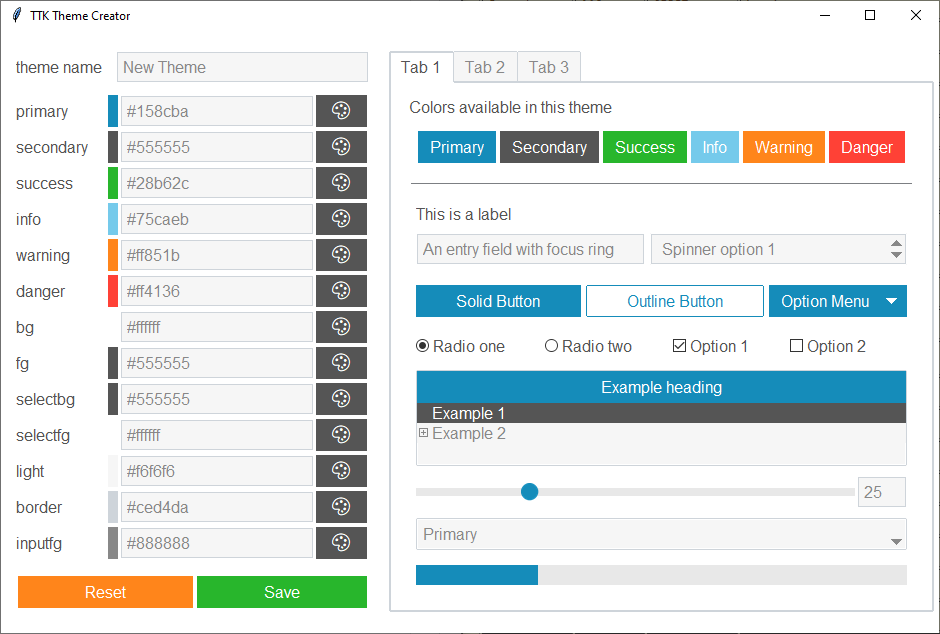
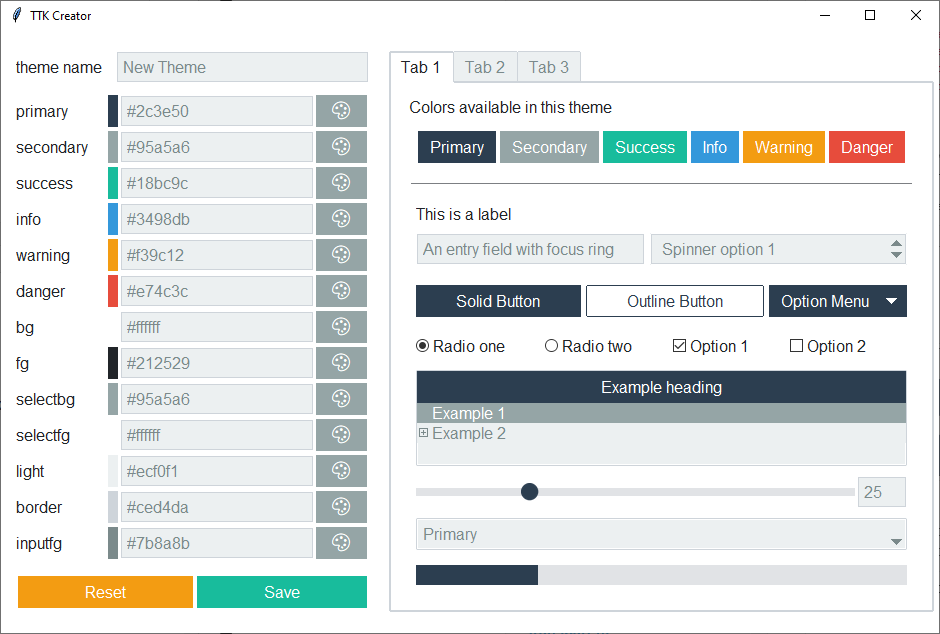
updated docstring and documentation

diff --git a/docs/_build/html/searchindex.js b/docs/_build/html/searchindex.js
@@ -1,1 +1,1 @@
-Search.setIndex({docnames:["creator","gettingstarted","index","install","overview","reference","themes","usage"],envversion:{"sphinx.domains.c":2,"sphinx.domains.changeset":1,"sphinx.domains.citation":1,"sphinx.domains.cpp":3,"sphinx.domains.index":1,"sphinx.domains.javascript":2,"sphinx.domains.math":2,"sphinx.domains.python":2,"sphinx.domains.rst":2,"sphinx.domains.std":2,"sphinx.ext.viewcode":1,sphinx:56},filenames:["creator.rst","gettingstarted.rst","index.rst","install.rst","overview.rst","reference.rst","themes.rst","usage.rst"],objects:{"":{ttkbootstrap:[4,0,0,"-"]},"ttkbootstrap.Colors":{__init__:[5,2,1,""],__repr__:[5,2,1,""],__weakref__:[5,3,1,""],brightness:[5,2,1,""],get:[5,2,1,""],hex_to_rgb:[5,2,1,""],label_iter:[5,2,1,""],rgb_to_hex:[5,2,1,""],set:[5,2,1,""]},"ttkbootstrap.Style":{__init__:[5,2,1,""],theme_use:[5,2,1,""]},ttkbootstrap:{Colors:[5,1,1,""],Style:[5,1,1,""]}},objnames:{"0":["py","module","Python module"],"1":["py","class","Python class"],"2":["py","method","Python method"],"3":["py","attribute","Python attribute"]},objtypes:{"0":"py:module","1":"py:class","2":"py:method","3":"py:attribute"},terms:{"158cba":6,"28b62c":6,"555555":6,"75caeb":6,"888888":6,"case":4,"class":[4,5,6,7],"default":[0,1,5,6,7],"float":5,"import":1,"int":5,"new":[0,5,6],"return":5,"static":5,"while":[3,4,7],And:4,For:[4,5,7],The:[0,1,5,6,7],Then:0,There:[2,3,6],These:[6,7],Using:2,YES:0,Yes:4,__init__:5,__repr__:5,__weakref__:5,abilti:4,abl:6,about:[1,2,6],accent:5,access:5,accur:5,actual:[0,6,7],adjust:5,after:[5,7],all:[0,4,5,6,7],alreadi:[0,3,5,7],also:[3,7],alt:1,ani:[1,6],anoth:[0,5],api:[4,7],appli:[0,1,4,5,7],applic:[2,4,5],appreci:4,approach:2,apt:0,arg:5,argument:[1,5,7],asid:6,ask:0,assign:1,attach:5,automat:1,avail:[0,4,5,6,7],background:5,base:[2,5,6],basi:5,basic:6,been:[5,7],behavior:[1,6],being:6,below:1,best:6,better:4,blue:[4,5],bootstrap:2,bootswatch:[4,6],border:[5,6],brand:6,bright:5,build:4,built:[1,2,4,5,6],button:[1,4,7],can:[0,1,5,6,7],car:6,ced4da:6,chang:[3,5,6,7],check:[0,1],checkbutton:7,choos:[0,2],clam:[1,6],classic:1,click:0,collect:[2,5,6],color:[0,1,2,4,6,7],color_label:5,color_valu:5,com:[3,4,6],combin:6,combobox:[4,5,6,7],come:4,complet:4,consid:7,consist:4,consol:0,construct:[0,6],contain:[3,5,6],content:2,convert:[5,6],correspond:5,cosmo:[6,7],couldn:0,craft:6,crash:0,creat:[1,2,4,5,7],creator:[1,2,4],css:4,current:[5,7],custom:[1,4],cyborg:[6,7],danger:[5,6,7],dark:[0,2,7],darken:5,darker:5,darkli:[1,6,7],date:3,declar:4,defin:[0,1,4,5,6,7],definit:6,demo:[0,6],depend:3,design:[0,6],desir:6,destin:0,detail:5,develop:[3,4],dialogu:0,didn:4,differ:[0,1,6],directli:0,directori:0,distribut:3,document:5,doe:[2,7],dot:5,dozen:2,drop:5,dryer:3,each:[6,7],easi:[0,3,4],easiest:3,effect:6,element:[0,6],emit:5,emojii:0,engin:4,entri:[5,7],etc:[0,1,5,6],even:4,event:5,everi:7,exampl:[2,4,5,6,7],excel:6,exist:[0,2,6],expect:5,explicitli:5,extract:6,extrem:4,f6f6f6:6,fafafa:5,familiar:4,featur:3,feel:6,few:3,ff4136:6,ff851b:6,ffffff:6,field:6,file:[0,6],find:0,first:[0,7],fix:0,flat:2,flatli:[6,7],follow:[6,7],font:[0,5,6],foreground:5,found:4,frame:7,from:[0,1,3,6],gener:[1,7],get:[0,2,5,6,7],git:3,github:[0,3],give:[3,6],given:5,green:5,gui:4,handl:3,happen:0,har:4,has:[5,7],have:[0,4,7],help:5,helper:5,helvetica:6,here:6,hex:0,hex_color:5,hex_to_rgb:5,hexadecim:5,horizont:7,how:[0,1,2],http:[3,4,6],hue:5,ident:7,imag:3,imagin:6,includ:[3,5,6,7],index:2,info:[4,5,6,7],inform:6,inherit:5,initi:5,input:[0,5],inputfg:[5,6],insid:4,inspir:[2,4,6],instal:[0,2],instanc:5,instanti:[5,7],instead:7,intend:4,interfac:4,intern:7,israel:3,iter:5,its:4,journal:[6,7],json:6,just:6,kei:5,keyword:[1,7],know:0,kwarg:5,label:[5,7],label_it:5,labelfram:7,layout:6,learn:1,left:[1,7],legaci:[2,4],librari:3,light:[0,2,5,7],lighten:5,lighter:5,like:[3,4,6],linux:[0,7],list:[4,5,7],liter:7,litera:6,live:6,load:[0,6],locat:0,look:[2,4,6],lookup:5,lumen:[1,5,6,7],maco:[0,7],mai:[0,3,6],main:[5,7],mainloop:1,make:[0,4],mani:[4,7],manipul:5,manual:1,map:6,master:[1,5],meant:5,menu:0,menubutton:7,method:[3,5,7],minti:[6,7],modern:[2,4],modul:2,more:[1,2,3,5],most:[3,5,7],must:0,name:[0,1,5,6,7],nearli:4,necessari:5,necessarili:4,need:[0,1,4,5,7],neg:5,nice:4,non:5,none:5,notat:5,notebook:7,now:0,nuanc:0,object:[1,5,7],off:4,often:4,old:[2,6],one:6,onli:[6,7],option:[0,3],optionmenu:4,orang:5,order:6,other:6,otherwis:[5,7],out:[1,4],outlin:[1,4,7],over:5,overid:0,overlook:4,overview:2,overwrit:0,overwritten:0,own:[0,1,2,4],pack:[1,7],packag:[0,4],padi:[1,7],padx:[1,7],page:2,palett:0,panedwindow:7,paramet:5,part:6,pass:[1,7],pattern:2,pct_chang:5,peopl:4,percent:5,pillow:3,pip:3,place:4,point:[0,6],popdown:4,posit:5,post:0,power:4,pre:[1,4,7],prefer:5,prefix:7,primari:[5,6,7],print:5,probabl:4,process:3,produc:7,profession:4,program:0,progressbar:7,project:2,prompt:0,properi:5,properti:[5,7],provid:[4,5],puls:[6,7],pypi:2,python:[0,3,4,5,6],quick:4,radiobutton:7,read:6,realli:[0,6],reason:[0,5,7],recommend:[0,3],red:5,refer:[2,6],refresh:5,relat:5,replac:5,repr:5,repres:5,requir:3,reset:0,result:1,revers:5,rgb:5,rgb_to_hex:5,rip:4,root:5,run:[5,7],runtim:[1,5,6,7],safe:0,sale:4,same:[4,5],sandston:[6,7],save:2,scale:7,scratch:0,scrollbar:7,search:2,secondari:[4,5,6,7],section:1,see:[0,5,6],select:[2,5],selectbg:[5,6],selectfg:[5,6],self:5,separ:7,set:[0,5,6,7],sever:[5,6],should:[0,5],shouldn:4,show:7,side:[1,7],signatur:5,similar:4,simpl:2,simpli:4,sizegrip:7,solar:[6,7],solid:7,solut:0,some:[0,3,4,5,6,7],sore:4,sourc:[2,5],specif:7,spinbox:[5,6,7],stabl:3,standard:1,start:2,state:6,stick:4,store:[0,6],str:5,style:[1,2,6],stylerttk:6,styletk:4,submit:[1,7],success:[1,5,6,7],sudo:0,superhero:[5,6,7],support:[0,5],sure:4,symbola:0,tabl:7,take:6,tbutton:[1,4,7],tcheckbutton:7,tcombobox:7,templat:6,tentri:7,text:[1,5,7],tframe:7,than:[2,6],thei:[0,4],theme:[1,2,4,5],theme_nam:[5,7],theme_us:[5,7],themechang:5,themenam:5,thi:[0,1,2,3,5,6],thu:4,thumb:4,time:[0,5,7],tkinter:[1,2,5],tlabel:7,tlabelfram:7,tmenubutton:7,tnotebook:7,togeth:6,took:4,tpanedwindow:7,tprogressbar:7,tradiobutton:7,treeview:7,trough:5,tscale:7,tscrollbar:7,tsepar:7,tsizegrip:7,tspinbox:7,ttk:[1,2,4,5,6,7],ttkbootstrap:[0,1,3,4,5,6,7],ttkcreator:0,tupl:5,type:[0,5,6],typic:5,under:4,uniqu:0,unit:[6,7],untest:3,updat:0,upgrad:0,use:[0,1,4,5,6,7],used:[3,4,5,6],user:[0,1,4,6],using:[0,1,3,4,6],util:4,valu:5,variou:[4,6],veri:4,version:4,vertic:7,via:5,view:6,want:[0,1,4,5,6,7],warn:[5,6,7],weak:5,web:4,well:5,what:[2,6,7],when:[0,1,4,5,6,7],where:7,which:[0,1,4,6,7],whole:4,why:[2,6],widget:[0,1,2,5,6],widgetclass:7,window:[0,1,5,6,7],without:0,wonder:6,work:1,would:[1,7],writabl:0,xpnativ:7,yet:4,yeti:[6,7],you:[0,1,3,4,5,6,7],your:[1,2,4]},titles:["TTK Creator","Getting started","Welcome to ttkbootstrap\u2019s documentation!","Installation","Overview","Reference","Themes","How to style widgets"],titleterms:{Using:7,about:4,applic:0,approach:4,base:0,bootstrap:4,choos:7,color:5,creat:[0,6],creator:0,dark:6,document:2,doe:4,exampl:1,exist:4,get:1,how:[6,7],indic:2,instal:3,legaci:6,light:6,old:4,overview:4,pattern:7,project:4,pypi:3,refer:5,save:0,select:0,simpl:1,sourc:3,start:[0,1],style:[4,5,7],tabl:2,theme:[0,6,7],thi:4,tkinter:4,ttk:0,ttkbootstrap:2,welcom:2,what:4,why:4,widget:[4,7],your:0}})
+Search.setIndex({docnames:["creator","gettingstarted","index","install","overview","reference","themes","usage"],envversion:{"sphinx.domains.c":2,"sphinx.domains.changeset":1,"sphinx.domains.citation":1,"sphinx.domains.cpp":3,"sphinx.domains.index":1,"sphinx.domains.javascript":2,"sphinx.domains.math":2,"sphinx.domains.python":2,"sphinx.domains.rst":2,"sphinx.domains.std":2,"sphinx.ext.viewcode":1,sphinx:56},filenames:["creator.rst","gettingstarted.rst","index.rst","install.rst","overview.rst","reference.rst","themes.rst","usage.rst"],objects:{"":{ttkbootstrap:[4,0,0,"-"]},"ttkbootstrap.Colors":{__init__:[5,2,1,""],__repr__:[5,2,1,""],__weakref__:[5,3,1,""],brightness:[5,2,1,""],get:[5,2,1,""],hex_to_rgb:[5,2,1,""],label_iter:[5,2,1,""],rgb_to_hex:[5,2,1,""],set:[5,2,1,""]},"ttkbootstrap.Style":{__init__:[5,2,1,""],theme_use:[5,2,1,""]},ttkbootstrap:{Colors:[5,1,1,""],Style:[5,1,1,""]}},objnames:{"0":["py","module","Python module"],"1":["py","class","Python class"],"2":["py","method","Python method"],"3":["py","attribute","Python attribute"]},objtypes:{"0":"py:module","1":"py:class","2":"py:method","3":"py:attribute"},terms:{"158cba":6,"28b62c":6,"555555":6,"75caeb":6,"888888":6,"case":4,"class":[4,5,6,7],"default":[0,1,5,6,7],"float":5,"import":1,"int":5,"new":[0,5,6],"return":5,"static":5,"while":[3,4,7],And:4,For:[4,5,7],The:[0,1,5,6,7],Then:0,There:[2,3,6],These:[6,7],Using:2,YES:0,Yes:4,__init__:5,__repr__:5,__weakref__:5,abilti:4,abl:6,about:[1,2,6],accent:5,access:5,accur:5,actual:[0,6,7],adjust:5,after:[5,7],all:[0,4,5,6,7],alreadi:[0,3,5,7],also:[3,7],alt:1,ani:[1,6],anoth:[0,5],api:[4,7],appli:[0,1,4,5,7],applic:[2,4,5],appreci:4,approach:2,apt:0,arg:5,argument:[1,5,7],asid:6,ask:0,assign:1,attach:5,automat:1,avail:[0,4,5,6,7],background:5,base:[2,5,6],basi:5,basic:6,been:[5,7],behavior:[1,6],being:6,below:1,best:6,better:4,blue:[4,5],bootstrap:2,bootswatch:[4,6],border:[5,6],brand:6,bright:5,build:4,built:[1,2,4,5,6],button:[1,4,7],can:[0,1,5,6,7],car:6,ced4da:6,chang:[3,5,6,7],check:[0,1],checkbutton:7,choos:[0,2],clam:[1,6],classic:1,click:0,collect:[2,5,6],color:[0,1,2,4,6,7],color_label:5,color_valu:5,com:[3,4,6],combin:6,combobox:[4,5,6,7],come:4,complet:4,consid:7,consist:4,consol:0,construct:[0,6],contain:[3,5,6],content:2,convert:[5,6],correspond:5,cosmo:[6,7],couldn:0,craft:6,crash:0,creat:[1,2,4,5,7],creator:[1,2,4],css:4,current:[5,7],custom:[1,4],cyborg:[6,7],danger:[5,6,7],dark:[0,2,7],darken:5,darker:5,darkli:[1,6,7],date:3,declar:4,defin:[0,1,4,5,6,7],definit:6,demo:[0,6],depend:3,design:[0,6],desir:6,destin:0,detail:5,develop:[3,4],dialogu:0,didn:4,differ:[0,1,6],directli:0,directori:0,distribut:3,document:5,doe:[2,7],dot:5,dozen:2,drop:5,dryer:3,each:[6,7],easi:[0,3,4],easiest:3,effect:6,element:[0,6],emit:5,emojii:0,engin:4,entri:[5,7],etc:[0,1,5,6],even:4,event:5,everi:7,exampl:[2,4,5,6,7],excel:6,exist:[0,2,6],expect:5,explicitli:5,extract:6,extrem:4,f6f6f6:6,fafafa:5,familiar:4,featur:3,feel:6,few:3,ff4136:6,ff851b:6,ffffff:6,field:6,file:[0,6],find:0,first:[0,7],fix:0,flat:2,flatli:[1,5,6,7],follow:[6,7],font:[0,5,6],foreground:5,found:4,frame:7,from:[0,1,3,6],gener:[1,7],get:[0,2,5,6,7],git:3,github:[0,3],give:[3,6],given:5,green:5,gui:4,handl:3,happen:0,har:4,has:[5,7],have:[0,4,7],help:5,helper:5,helvetica:6,here:6,hex:0,hex_color:5,hex_to_rgb:5,hexadecim:5,horizont:7,how:[0,1,2],http:[3,4,6],hue:5,ident:7,imag:3,imagin:6,includ:[3,5,6,7],index:2,info:[4,5,6,7],inform:6,inherit:5,initi:5,input:[0,5],inputfg:[5,6],insid:4,inspir:[2,4,6],instal:[0,2],instanc:5,instanti:[5,7],instead:7,intend:4,interfac:4,intern:7,israel:3,iter:5,its:4,journal:[6,7],json:6,just:6,kei:5,keyword:[1,7],know:0,kwarg:5,label:[5,7],label_it:5,labelfram:7,layout:6,learn:1,left:[1,7],legaci:[2,4],librari:3,light:[0,2,5,7],lighten:5,lighter:5,like:[3,4,6],linux:[0,7],list:[4,5,7],liter:7,litera:6,live:6,load:[0,6],locat:0,look:[2,4,6],lookup:5,lumen:[6,7],maco:[0,7],mai:[0,3,6],main:[5,7],mainloop:1,make:[0,4],mani:[4,7],manipul:5,manual:1,map:6,master:[1,5],meant:5,menu:0,menubutton:7,method:[3,5,7],minti:[6,7],modern:[2,4],modul:2,more:[1,2,3,5],most:[3,5,7],must:0,name:[0,1,5,6,7],nearli:4,necessari:5,necessarili:4,need:[0,1,4,5,7],neg:5,nice:4,non:5,none:5,notat:5,notebook:7,now:0,nuanc:0,object:[1,5,7],off:4,often:4,old:[2,6],one:6,onli:[6,7],option:[0,3],optionmenu:4,orang:5,order:6,other:6,otherwis:[5,7],out:[1,4],outlin:[1,4,7],over:5,overid:0,overlook:4,overview:2,overwrit:0,overwritten:0,own:[0,1,2,4],pack:[1,7],packag:[0,4],padi:[1,7],padx:[1,7],page:2,palett:0,panedwindow:7,paramet:5,part:6,pass:[1,7],pattern:2,pct_chang:5,peopl:4,percent:5,pillow:3,pip:3,place:4,point:[0,6],popdown:4,posit:5,post:0,power:4,pre:[1,4,7],prefer:5,prefix:7,primari:[5,6,7],print:5,probabl:4,process:3,produc:7,profession:4,program:0,progressbar:7,project:2,prompt:0,properi:5,properti:[5,7],provid:[4,5],puls:[6,7],pypi:2,python:[0,3,4,5,6],quick:4,radiobutton:7,read:6,realli:[0,6],reason:[0,5,7],recommend:[0,3],red:5,refer:[2,6],refresh:5,relat:5,replac:5,repr:5,repres:5,requir:3,reset:0,result:1,revers:5,rgb:5,rgb_to_hex:5,rip:4,root:5,run:[5,7],runtim:[1,5,6,7],safe:0,sale:4,same:[4,5],sandston:[6,7],save:2,scale:7,scratch:0,scrollbar:7,search:2,secondari:[4,5,6,7],section:1,see:[0,5,6],select:[2,5],selectbg:[5,6],selectfg:[5,6],self:5,separ:7,set:[0,5,6,7],sever:[5,6],should:[0,5],shouldn:4,show:7,side:[1,7],signatur:5,similar:4,simpl:2,simpli:4,sizegrip:7,solar:[6,7],solid:7,solut:0,some:[0,3,4,5,6,7],sore:4,sourc:[2,5],specif:7,spinbox:[5,6,7],stabl:3,standard:1,start:2,state:6,stick:4,store:[0,6],str:5,style:[1,2,6],stylerttk:6,styletk:4,submit:[1,7],success:[1,5,6,7],sudo:0,superhero:[5,6,7],support:[0,5],sure:4,symbola:0,tabl:7,take:6,tbutton:[1,4,7],tcheckbutton:7,tcombobox:7,templat:6,tentri:7,text:[1,5,7],tframe:7,than:[2,6],thei:[0,4],theme:[1,2,4,5],theme_nam:[5,7],theme_us:[5,7],themechang:5,themenam:5,thi:[0,1,2,3,5,6],thu:4,thumb:4,time:[0,5,7],tkinter:[1,2,5],tlabel:7,tlabelfram:7,tmenubutton:7,tnotebook:7,togeth:6,took:4,tpanedwindow:7,tprogressbar:7,tradiobutton:7,treeview:7,trough:5,tscale:7,tscrollbar:7,tsepar:7,tsizegrip:7,tspinbox:7,ttk:[1,2,4,5,6,7],ttkbootstrap:[0,1,3,4,5,6,7],ttkcreator:0,tupl:5,type:[0,5,6],typic:5,under:4,uniqu:0,unit:[6,7],untest:3,updat:0,upgrad:0,use:[0,1,4,5,6,7],used:[3,4,5,6],user:[0,1,4,6],using:[0,1,3,4,6],util:4,valu:5,variou:[4,6],veri:4,version:4,vertic:7,via:5,view:6,want:[0,1,4,5,6,7],warn:[5,6,7],weak:5,web:4,well:5,what:[2,6,7],when:[0,1,4,5,6,7],where:7,which:[0,1,4,6,7],whole:4,why:[2,6],widget:[0,1,2,5,6],widgetclass:7,window:[0,1,5,6,7],without:0,wonder:6,work:1,would:[1,7],writabl:0,xpnativ:7,yet:4,yeti:[6,7],you:[0,1,3,4,5,6,7],your:[1,2,4]},titles:["TTK Creator","Getting started","Welcome to ttkbootstrap\u2019s documentation!","Installation","Overview","Reference","Themes","How to style widgets"],titleterms:{Using:7,about:4,applic:0,approach:4,base:0,bootstrap:4,choos:7,color:5,creat:[0,6],creator:0,dark:6,document:2,doe:4,exampl:1,exist:4,get:1,how:[6,7],indic:2,instal:3,legaci:6,light:6,old:4,overview:4,pattern:7,project:4,pypi:3,refer:5,save:0,select:0,simpl:1,sourc:3,start:[0,1],style:[4,5,7],tabl:2,theme:[0,6,7],thi:4,tkinter:4,ttk:0,ttkbootstrap:2,welcom:2,what:4,why:4,widget:[4,7],your:0}})

diff --git a/docs/_build/html/reference.html b/docs/_build/html/reference.html
@@ -173,7 +173,7 @@ to be a drop-in replacement for <code class="docutils literal notranslate"><span
 object will instantiate the <code class="docutils literal notranslate"><span class="pre">tkinter.Tk</span></code> instance in the <code class="docutils literal notranslate"><span class="pre">Style.master</span></code> property, and so it is not
 necessary to explicitly create an instance of <code class="docutils literal notranslate"><span class="pre">tkinter.Tk</span></code>. For more details on the <code class="docutils literal notranslate"><span class="pre">ttk.Style</span></code> class, see the
 python <a class="reference external" href="https://docs.python.org/3.9/library/tkinter.ttk.html#tkinter.ttk.Style">documentation</a>.</p>
-<div class="highlight-python notranslate"><div class="highlight"><pre><span></span><span class="c1"># instantiate the style with default theme *lumen*</span>
+<div class="highlight-python notranslate"><div class="highlight"><pre><span></span><span class="c1"># instantiate the style with default theme *flatly*</span>
 <span class="n">style</span> <span class="o">=</span> <span class="n">Style</span><span class="p">()</span>
 
 <span class="c1"># instantiate the style with another theme</span>
@@ -186,15 +186,15 @@ python <a class="reference external" href="https://docs.python.org/3.9/library/t
 </div>
 <dl class="py class">
 <dt id="ttkbootstrap.Style">
-<em class="property"><span class="pre">class</span> </em><code class="sig-prename descclassname"><span class="pre">ttkbootstrap.</span></code><code class="sig-name descname"><span class="pre">Style</span></code><span class="sig-paren">(</span><em class="sig-param"><span class="n"><span class="pre">theme</span></span><span class="o"><span class="pre">=</span></span><span class="default_value"><span class="pre">'lumen'</span></span></em>, <em class="sig-param"><span class="o"><span class="pre">*</span></span><span class="n"><span class="pre">args</span></span></em>, <em class="sig-param"><span class="o"><span class="pre">**</span></span><span class="n"><span class="pre">kwargs</span></span></em><span class="sig-paren">)</span><a class="reference internal" href="_modules/ttkbootstrap.html#Style"><span class="viewcode-link"><span class="pre">[source]</span></span></a><a class="headerlink" href="#ttkbootstrap.Style" title="Permalink to this definition">¶</a></dt>
+<em class="property"><span class="pre">class</span> </em><code class="sig-prename descclassname"><span class="pre">ttkbootstrap.</span></code><code class="sig-name descname"><span class="pre">Style</span></code><span class="sig-paren">(</span><em class="sig-param"><span class="n"><span class="pre">theme</span></span><span class="o"><span class="pre">=</span></span><span class="default_value"><span class="pre">'flatly'</span></span></em>, <em class="sig-param"><span class="o"><span class="pre">*</span></span><span class="n"><span class="pre">args</span></span></em>, <em class="sig-param"><span class="o"><span class="pre">**</span></span><span class="n"><span class="pre">kwargs</span></span></em><span class="sig-paren">)</span><a class="reference internal" href="_modules/ttkbootstrap.html#Style"><span class="viewcode-link"><span class="pre">[source]</span></span></a><a class="headerlink" href="#ttkbootstrap.Style" title="Permalink to this definition">¶</a></dt>
 <dd><p>Bases: <code class="xref py py-class docutils literal notranslate"><span class="pre">tkinter.ttk.Style</span></code></p>
 <p>A class for setting the application style.</p>
 <dl class="py method">
 <dt id="ttkbootstrap.Style.__init__">
-<code class="sig-name descname"><span class="pre">__init__</span></code><span class="sig-paren">(</span><em class="sig-param"><span class="n"><span class="pre">theme</span></span><span class="o"><span class="pre">=</span></span><span class="default_value"><span class="pre">'lumen'</span></span></em>, <em class="sig-param"><span class="o"><span class="pre">*</span></span><span class="n"><span class="pre">args</span></span></em>, <em class="sig-param"><span class="o"><span class="pre">**</span></span><span class="n"><span class="pre">kwargs</span></span></em><span class="sig-paren">)</span><a class="reference internal" href="_modules/ttkbootstrap.html#Style.__init__"><span class="viewcode-link"><span class="pre">[source]</span></span></a><a class="headerlink" href="#ttkbootstrap.Style.__init__" title="Permalink to this definition">¶</a></dt>
+<code class="sig-name descname"><span class="pre">__init__</span></code><span class="sig-paren">(</span><em class="sig-param"><span class="n"><span class="pre">theme</span></span><span class="o"><span class="pre">=</span></span><span class="default_value"><span class="pre">'flatly'</span></span></em>, <em class="sig-param"><span class="o"><span class="pre">*</span></span><span class="n"><span class="pre">args</span></span></em>, <em class="sig-param"><span class="o"><span class="pre">**</span></span><span class="n"><span class="pre">kwargs</span></span></em><span class="sig-paren">)</span><a class="reference internal" href="_modules/ttkbootstrap.html#Style.__init__"><span class="viewcode-link"><span class="pre">[source]</span></span></a><a class="headerlink" href="#ttkbootstrap.Style.__init__" title="Permalink to this definition">¶</a></dt>
 <dd><dl class="field-list simple">
 <dt class="field-odd">Parameters</dt>
-<dd class="field-odd"><p><strong>theme</strong> (<em>str</em>) – the name of the theme to use at runtime; <em>lumen</em> by default.</p>
+<dd class="field-odd"><p><strong>theme</strong> (<em>str</em>) – the name of the theme to use at runtime; <em>flatly</em> by default.</p>
 </dd>
 </dl>
 </dd></dl>

diff --git a/docs/_build/html/_modules/ttkbootstrap.html b/docs/_build/html/_modules/ttkbootstrap.html
@@ -197,9 +197,9 @@
 <span class="sd">    A class for setting the application style.</span>
 <span class="sd">    &quot;&quot;&quot;</span>
 
-<div class="viewcode-block" id="Style.__init__"><a class="viewcode-back" href="../reference.html#ttkbootstrap.Style.__init__">[docs]</a>    <span class="k">def</span> <span class="fm">__init__</span><span class="p">(</span><span class="bp">self</span><span class="p">,</span> <span class="n">theme</span><span class="o">=</span><span class="s1">&#39;lumen&#39;</span><span class="p">,</span> <span class="o">*</span><span class="n">args</span><span class="p">,</span> <span class="o">**</span><span class="n">kwargs</span><span class="p">):</span>
+<div class="viewcode-block" id="Style.__init__"><a class="viewcode-back" href="../reference.html#ttkbootstrap.Style.__init__">[docs]</a>    <span class="k">def</span> <span class="fm">__init__</span><span class="p">(</span><span class="bp">self</span><span class="p">,</span> <span class="n">theme</span><span class="o">=</span><span class="s1">&#39;flatly&#39;</span><span class="p">,</span> <span class="o">*</span><span class="n">args</span><span class="p">,</span> <span class="o">**</span><span class="n">kwargs</span><span class="p">):</span>
         <span class="sd">&quot;&quot;&quot;</span>
-<span class="sd">        :param str theme: the name of the theme to use at runtime; *lumen* by default.</span>
+<span class="sd">        :param str theme: the name of the theme to use at runtime; *flatly* by default.</span>
 <span class="sd">        &quot;&quot;&quot;</span>
         <span class="nb">super</span><span class="p">()</span><span class="o">.</span><span class="fm">__init__</span><span class="p">(</span><span class="o">*</span><span class="n">args</span><span class="p">,</span> <span class="o">**</span><span class="n">kwargs</span><span class="p">)</span>
         <span class="bp">self</span><span class="o">.</span><span class="n">themes</span> <span class="o">=</span> <span class="p">{}</span>

diff --git a/docs/_build/html/gettingstarted.html b/docs/_build/html/gettingstarted.html
@@ -173,7 +173,7 @@ if you want to learn more about how this works and how you can create your own c
 <div class="highlight-python notranslate"><div class="highlight"><pre><span></span><span class="kn">from</span> <span class="nn">ttkbootstrap</span> <span class="kn">import</span> <span class="n">Style</span>
 <span class="kn">from</span> <span class="nn">tkinter</span> <span class="kn">import</span> <span class="n">ttk</span>
 
-<span class="n">style</span> <span class="o">=</span> <span class="n">Style</span><span class="p">()</span>  <span class="c1"># lumen style is applied by default</span>
+<span class="n">style</span> <span class="o">=</span> <span class="n">Style</span><span class="p">()</span>  <span class="c1"># flatly style is applied by default</span>
 
 <span class="n">window</span> <span class="o">=</span> <span class="n">style</span><span class="o">.</span><span class="n">master</span>
 <span class="n">ttk</span><span class="o">.</span><span class="n">Button</span><span class="p">(</span><span class="n">window</span><span class="p">,</span> <span class="n">text</span><span class="o">=</span><span class="s2">&quot;Submit&quot;</span><span class="p">,</span> <span class="n">style</span><span class="o">=</span><span class="s1">&#39;success.TButton&#39;</span><span class="p">)</span><span class="o">.</span><span class="n">pack</span><span class="p">(</span><span class="n">side</span><span class="o">=</span><span class="s1">&#39;left&#39;</span><span class="p">,</span> <span class="n">padx</span><span class="o">=</span><span class="mi">5</span><span class="p">,</span> <span class="n">pady</span><span class="o">=</span><span class="mi">10</span><span class="p">)</span>

diff --git a/docs/_build/html/usage.html b/docs/_build/html/usage.html
@@ -172,8 +172,8 @@ identical to the <code class="docutils literal notranslate"><span class="pre">tt
 <div class="section" id="choosing-a-theme">
 <h2>Choosing a theme<a class="headerlink" href="#choosing-a-theme" title="Permalink to this headline">¶</a></h2>
 <p>To use a ttkbootstrap theme, you first create a <code class="docutils literal notranslate"><span class="pre">ttkbootstrap.Style</span></code> object. You can pass in the name of the theme
-you want to use as an argument. Otherwise, by default, the <em>lumen</em> style will be applied.</p>
-<div class="highlight-python notranslate"><div class="highlight"><pre><span></span><span class="c1"># lumen style is applied by default</span>
+you want to use as an argument. Otherwise, by default, the <em>flatly</em> style will be applied.</p>
+<div class="highlight-python notranslate"><div class="highlight"><pre><span></span><span class="c1"># flatly style is applied by default</span>
 <span class="n">style</span> <span class="o">=</span> <span class="n">Style</span><span class="p">()</span>
 
 <span class="c1"># if you want to set a specific theme at runtime, pass it&#39;s name as a keyword argument</span>

diff --git a/src/ttkcreator/__init__.py b/src/ttkcreator/__init__.py
@@ -219,7 +219,7 @@ class CreatorDesignWindow(tk.Toplevel):
 
     def reset_theme(self):
         """
-        Reset all values and variable to the default theme (dark='superhero', light='lumen')
+        Reset all values and variable to the default theme (dark='superhero', light='flatly')
         """
         self.style.theme_use(self.theme_name)
         self.reset_variables()
@@ -308,15 +308,14 @@ class CreatorDesignWindow(tk.Toplevel):
         y1 = self.winfo_rooty() - titlebar
         x2 = x1 + self.winfo_width() + 2
         y2 = y1 + self.winfo_height() + titlebar + 1
-
-        self.after_idle(self.save_screenshot, [x1, y1, x2, y2])
+        self.save_screenshot([x1, y1, x2, y2])
 
     def save_screenshot(self, bbox):
         # screenshot
         img = ImageGrab.grab(bbox=bbox)
 
         # image name
-        filename = f'images/ttkcreator.png'
+        filename = f'docs/images/ttkcreator.png'
         print(filename)
         img.save(filename, 'png')
 
@@ -443,12 +442,12 @@ class CreatorBaseChooser(tk.Tk):
     def __init__(self):
         super().__init__()
         self.style = Style()
-        self.style.theme_use('lumen')
         self.title('TTK Creator')
         self.geometry(f'938x602')
         self.frame = ttk.Frame(self)
         self.setup()
         self.eval('tk::PlaceWindow . center')
+        self.bind("<Insert>", self.get_bounding_box)
 
     def setup(self):
         self.frame.pack(fill='both', expand='yes')
@@ -466,7 +465,7 @@ class CreatorBaseChooser(tk.Tk):
 
     def create_dark_theme(self):
         """
-        Startup the design window with the 'lumen' theme
+        Startup the design window with the 'flatly' theme
         """
         valid_user_path = self.check_user_themes_path()
         if not valid_user_path:
@@ -486,6 +485,27 @@ class CreatorBaseChooser(tk.Tk):
 
         CreatorDesignWindow(self)
         self.withdraw()
+
+    def save_screenshot(self, bbox):
+        # screenshot
+        img = ImageGrab.grab(bbox=bbox)
+
+        # image name
+        filename = f'docs/images/ttkcreator-splash.png'
+        print(filename)
+        img.save(filename, 'png')
+
+    def get_bounding_box(self, event):
+        """
+        Take a screenshot of the current demo window and save to images
+        """
+        # bounding box
+        titlebar = 31
+        x1 = self.winfo_rootx() - 1
+        y1 = self.winfo_rooty() - titlebar
+        x2 = x1 + self.winfo_width() + 2
+        y2 = y1 + self.winfo_height() + titlebar + 1
+        self.save_screenshot([x1, y1, x2, y2])
 
     def check_user_themes_path(self):
         """

diff --git a/src/ttkbootstrap/examples/e001_simple_data_entry.py b/src/ttkbootstrap/examples/e001_simple_data_entry.py
@@ -1,0 +1,44 @@
+"""
+A simple data entry form that prints the values to the screen when submitted
+"""
+from ttkbootstrap import Style
+from tkinter import ttk
+import tkinter
+
+style = Style()
+window = style.master
+window.title('Simple data entry form')
+
+# add frame in order to add padding on inside of window
+frame = ttk.Frame(window, padding=(20, 10))
+frame.pack(fill='both', expand='yes')
+frame.columnconfigure(2, weight=1)
+
+name = tkinter.StringVar(value='')
+address = tkinter.StringVar(value='')
+phone = tkinter.StringVar(value='')
+
+# form header
+ttk.Label(frame, text='Please enter your contact information', width=60).grid(columnspan=3, pady=10)
+
+# name
+ttk.Label(frame, text='Name').grid(row=1, column=0, sticky='ew', pady=10, padx=(0, 10))
+ttk.Entry(frame, textvariable=name).grid(row=1, column=1, columnspan=2, sticky='ew')
+
+# address
+ttk.Label(frame, text='Address').grid(row=2, column=0, sticky='ew', pady=10, padx=(0, 10))
+ttk.Entry(frame, textvariable=address).grid(row=2, column=1, columnspan=2, sticky='ew')
+
+# phone number
+ttk.Label(frame, text='Phone').grid(row=3, column=0, pady=10, sticky='ew', padx=(0, 10))
+ttk.Entry(frame, textvariable=phone).grid(row=3, column=1, columnspan=2, sticky='ew')
+
+# submit
+print_form_data = lambda: print(name.get(), address.get(), phone.get())
+submit_btn = ttk.Button(frame, text='Submit', style='success.TButton', command=print_form_data)
+submit_btn.grid(row=4, column=0, sticky='ew', pady=10, padx=(0, 10))
+
+# cancel
+ttk.Button(frame, text='Cancel', style='danger.TButton', command=window.quit).grid(row=4, column=1, sticky='ew')
+
+window.mainloop()

diff --git a/src/ttkbootstrap/__init__.py b/src/ttkbootstrap/__init__.py
@@ -38,9 +38,9 @@ class Style(ttk.Style):
     A class for setting the application style.
     """
 
-    def __init__(self, theme='lumen', *args, **kwargs):
+    def __init__(self, theme='flatly', *args, **kwargs):
         """
-        :param str theme: the name of the theme to use at runtime; *lumen* by default.
+        :param str theme: the name of the theme to use at runtime; *flatly* by default.
         """
         super().__init__(*args, **kwargs)
         self.themes = {}

diff --git a/setup.py b/setup.py
@@ -11,7 +11,7 @@ the ability to easily create your own.
 
 setuptools.setup(
     name="ttkbootstrap",
-    version="0.0.22",
+    version="0.0.23",
     author="Israel Dryer",
     author_email="israel.dryer@gmail.com",
     description="A collection of modern ttk themes inspired by Bootstrap",

diff --git a/docs/usage.rst b/docs/usage.rst
@@ -8,11 +8,11 @@ identical to the ``ttk.Style`` api.
 Choosing a theme
 ----------------
 To use a ttkbootstrap theme, you first create a ``ttkbootstrap.Style`` object. You can pass in the name of the theme
-you want to use as an argument. Otherwise, by default, the *lumen* style will be applied.
+you want to use as an argument. Otherwise, by default, the *flatly* style will be applied.
 
 .. code-block:: python
 
-    # lumen style is applied by default
+    # flatly style is applied by default
     style = Style()
 
     # if you want to set a specific theme at runtime, pass it's name as a keyword argument

diff --git a/docs/gettingstarted.rst b/docs/gettingstarted.rst
@@ -12,7 +12,7 @@ Simple example
     from ttkbootstrap import Style
     from tkinter import ttk
 
-    style = Style()  # lumen style is applied by default
+    style = Style()  # flatly style is applied by default
 
     window = style.master
     ttk.Button(window, text="Submit", style='success.TButton').pack(side='left', padx=5, pady=10)

diff --git a/docs/reference.rst b/docs/reference.rst
@@ -10,7 +10,7 @@ python documentation_.
 
 .. code-block:: python
 
-    # instantiate the style with default theme *lumen*
+    # instantiate the style with default theme *flatly*
     style = Style()
 
     # instantiate the style with another theme
